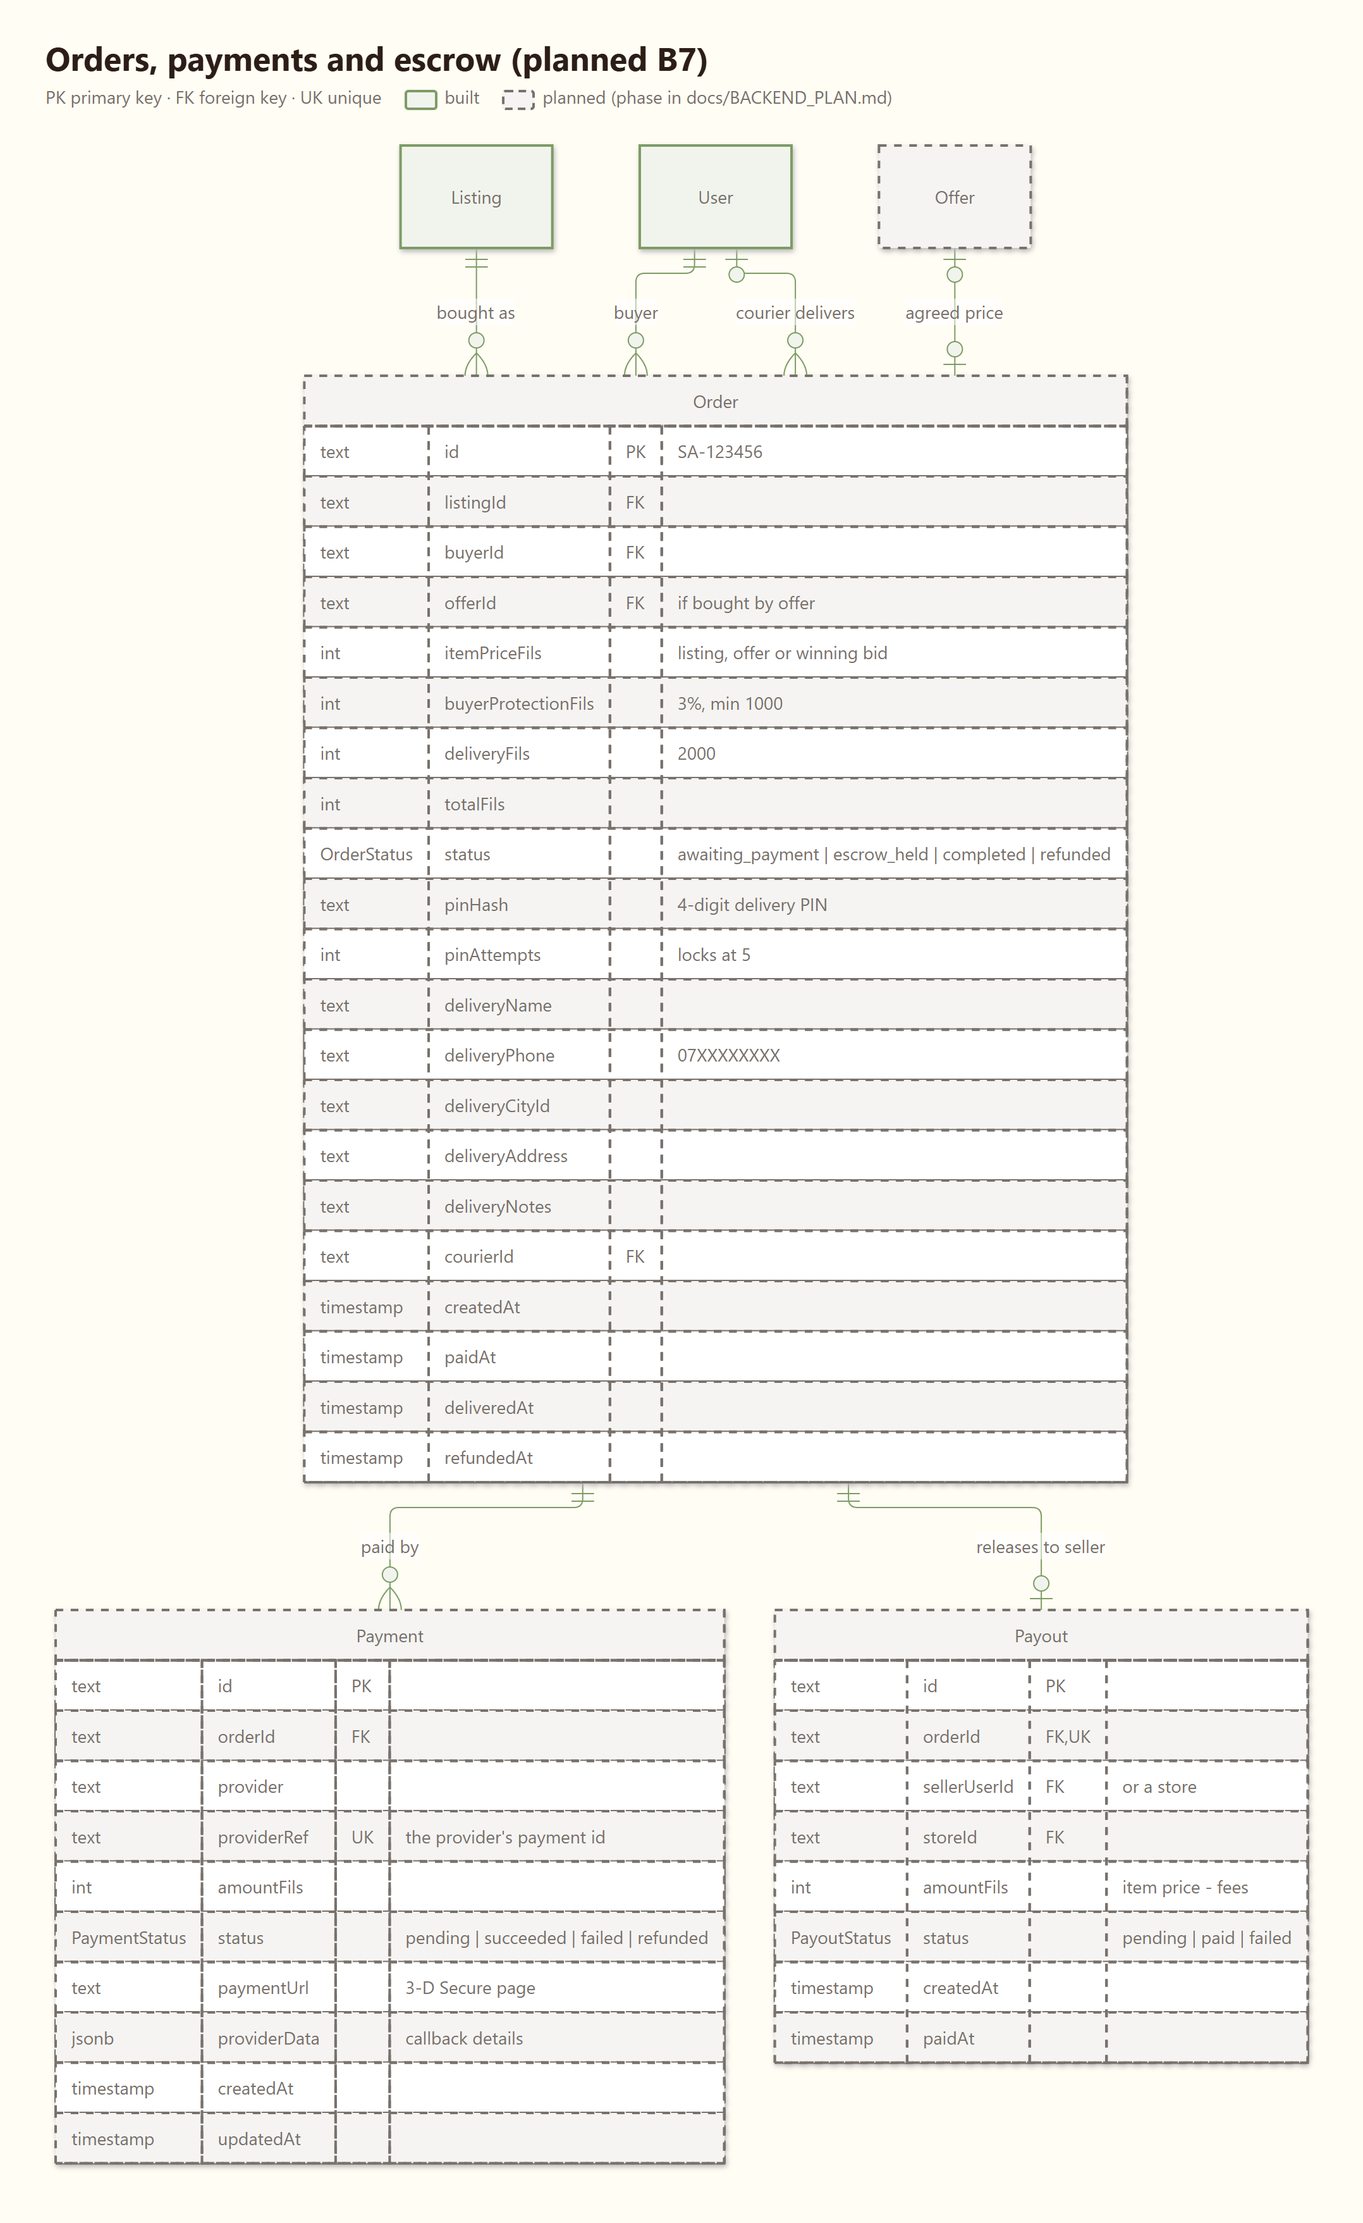
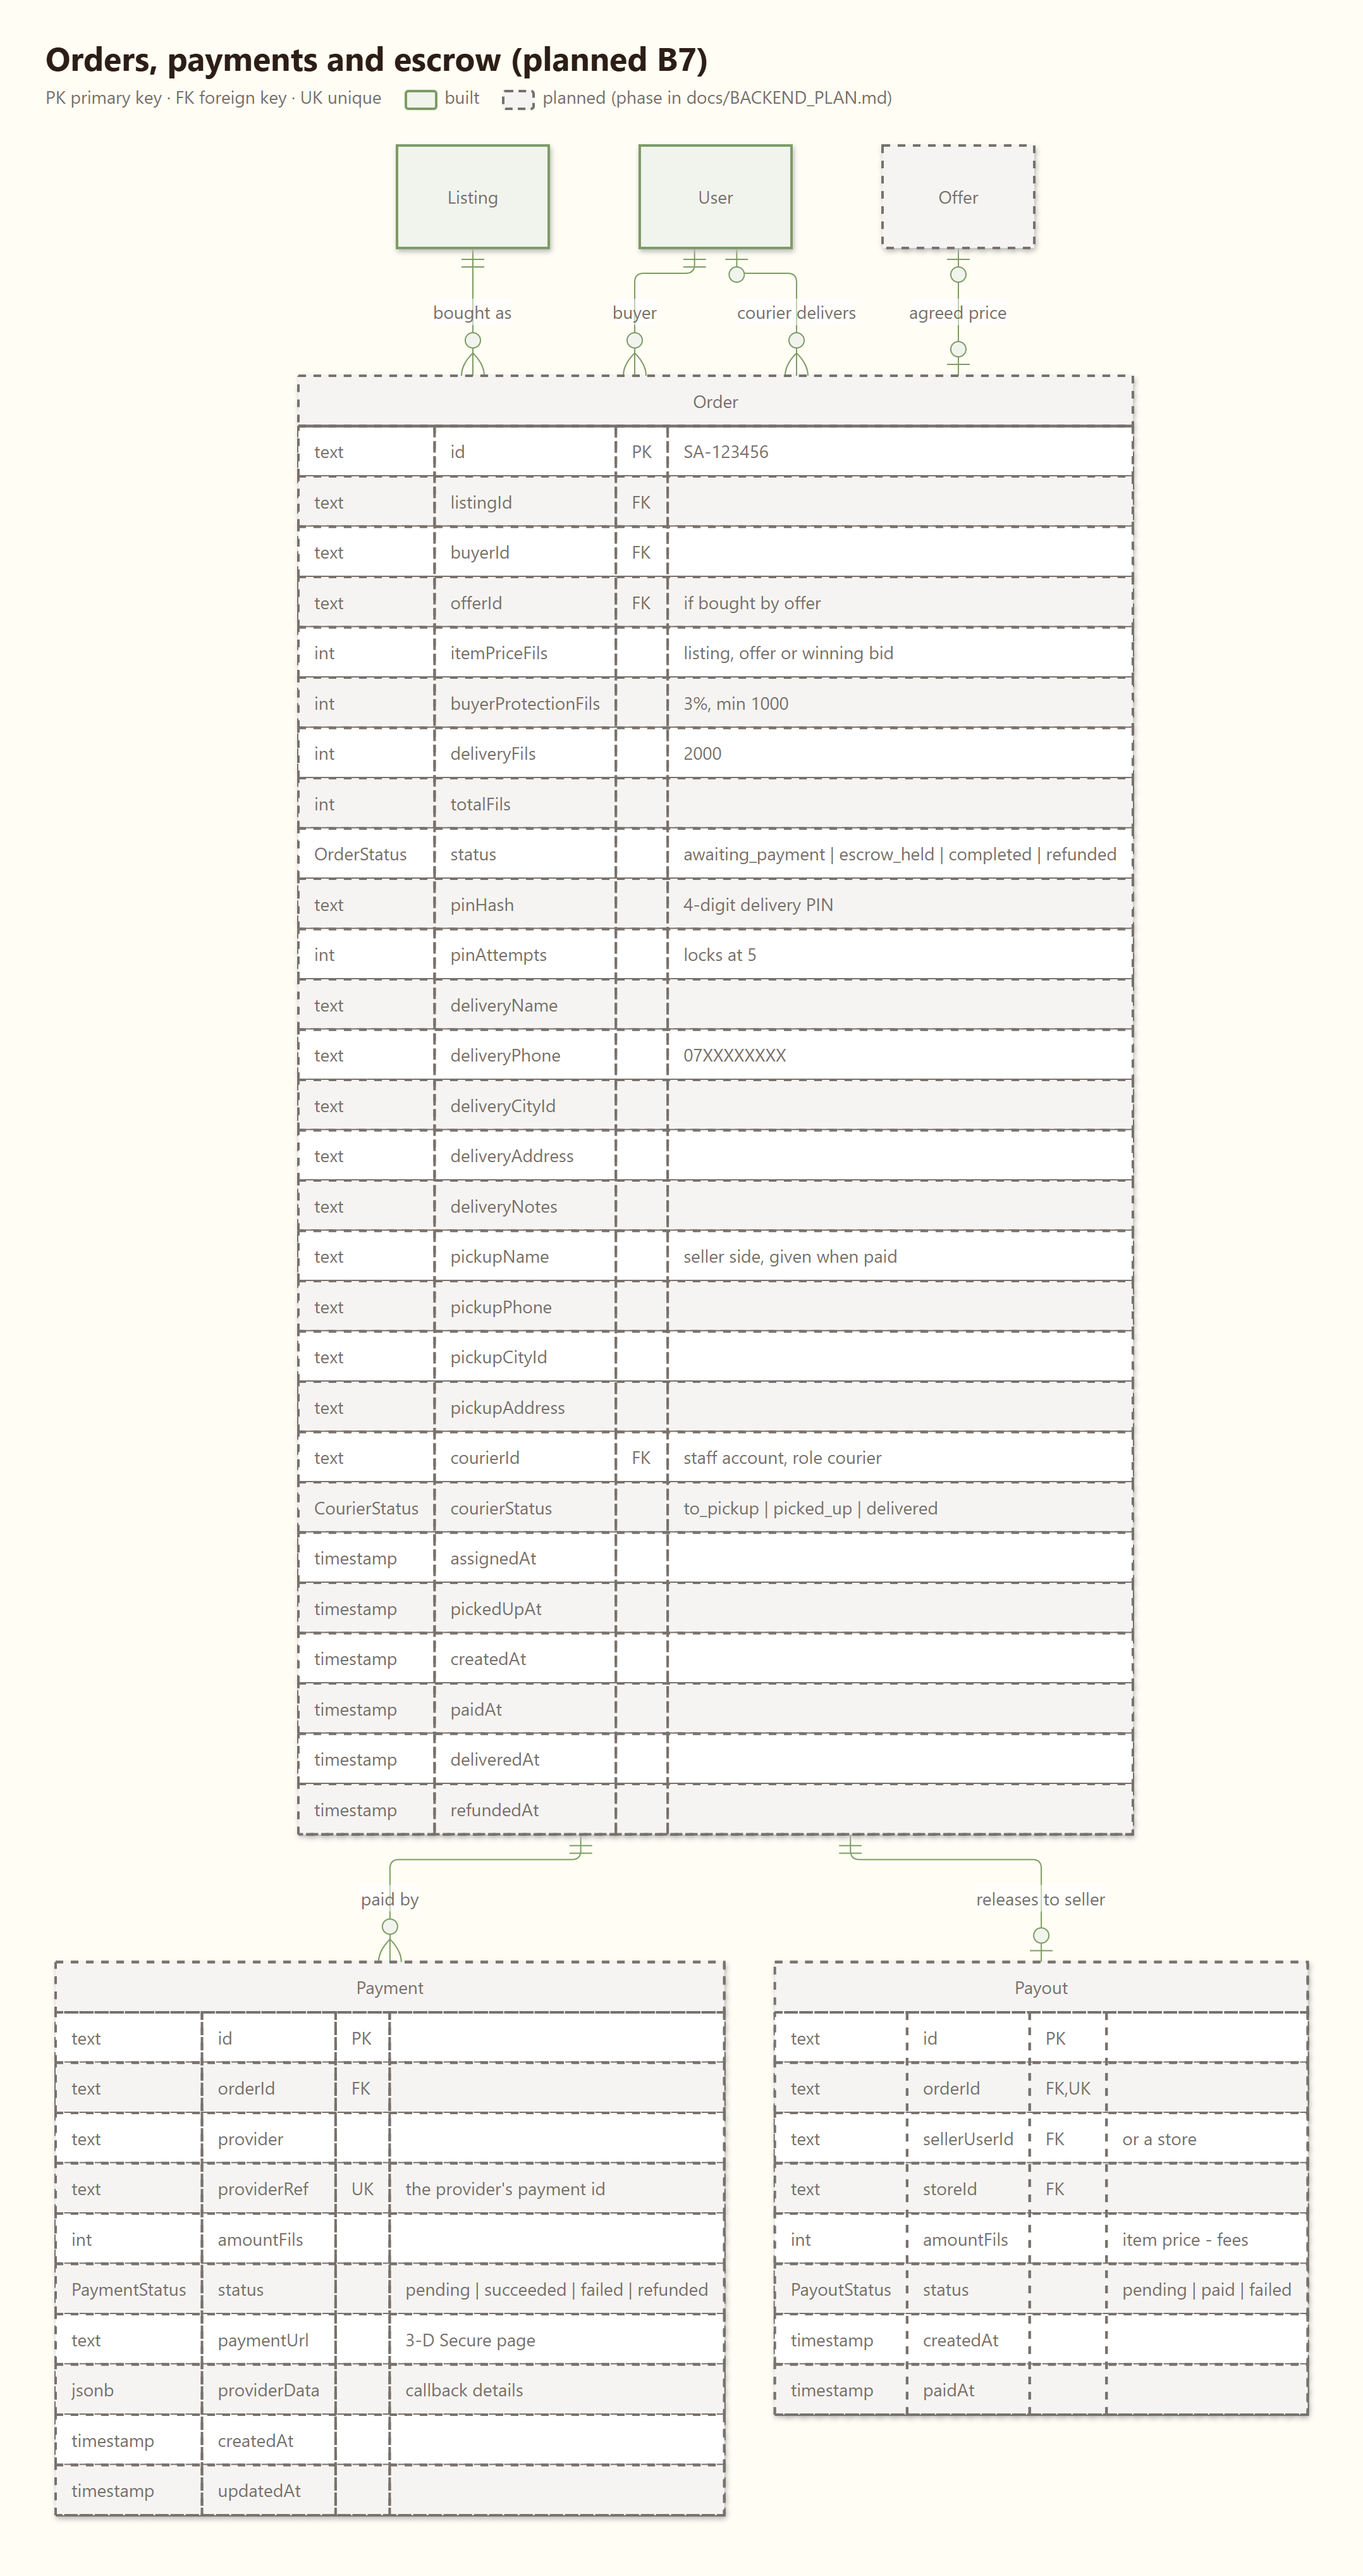
docs: courier (driver) app design (B14)
- Couriers are staff: admins create them with the company email domain (D9), an
  invite code sets the password, public sign-up refuses that domain
- Couriers see only their deliveries: order number, pickup (seller) and drop-off
  (buyer), Picked up, PIN at the door; customer endpoints answer FORBIDDEN for them
- API.md: Delivery type, GET /courier/deliveries,
  POST /courier/deliveries/:orderId/picked-up; DATABASE.md: Order pickup fields and
  courier status; plan tasks B14.1–B14.7

Changed region(s): [[0.0311, 0.0, 0.9634, 0.9926], [0.7458, 0.062, 0.7769, 0.0931]]

diff --git a/docs/API.md b/docs/API.md
@@ -6,6 +6,11 @@ The app's HTTP service layer (`frontend/src/services/*/http.ts`) and API client 
 
 ## Changes on 2026-10-30 (backend: please read)
 
+**Planned: courier app** ([Couriers](#couriers-drivers-planned-backend_plan-b14)). Courier accounts are
+made by admins with the staff email domain, never by sign-up; couriers see only their deliveries (pickup,
+drop-off, PIN). New: `GET /courier/deliveries`, `POST /courier/deliveries/:orderId/picked-up`; sign-up
+refuses staff-domain emails; customer endpoints answer `FORBIDDEN` for couriers.
+
 **Breaking**
 * **Certified refurbished listings are always fixed price.** Vendors set the price, so the import
   (`POST /admin/refurbished/import`) has no `auctionEndsAt` / `auctionIncrementJod` any more: a row that
@@ -698,7 +703,41 @@ building and floor, and can change anything. The order is unchanged: it carries 
   * The listing becomes `sold`.
   * The PIN check and release happen **only on the server**. Rate-limit attempts per order (e.g. lock after 5 wrong PINs) so a PIN can't be guessed.
 * **Refunds:** if the item never arrives, support/admin moves the order to `refunded`, the escrow is returned to the buyer and the listing goes back to `active` (no app endpoint).
-* **`User.role`**: optional, `"courier"` for courier accounts. Couriers see "Confirm a Delivery" in the menu.
+* **`User.role`**: optional, `"courier"` for courier accounts. Couriers see only the courier screens
+  (below), never browsing, selling or buying.
+
+### Couriers (drivers) *(planned: BACKEND_PLAN B14)*
+
+Couriers are Sahla staff. **Nobody signs up as a courier:** an admin creates the account with a company
+email (the staff domain, e.g. `@sahla.jo`) and an invite code is emailed; the courier sets a password with
+`POST /auth/reset-password` (the app's normal "forgot password" screens) and then logs in with
+`POST /auth/login`. `POST /auth/send-otp` and `POST /auth/signup` refuse staff-domain emails (`VALIDATION`).
+With `role: "courier"` the app shows only these screens; every customer endpoint (listings, offers, chats,
+orders, saved items) answers `FORBIDDEN` (403) for a courier.
+
+```ts
+type Delivery = {
+  orderId: string;                  // "SA-123456"
+  status: 'to_pickup' | 'picked_up' | 'delivered';
+  itemTitle: Localized;
+  itemImageUrl: string;
+  pickup: DeliveryDetails;          // the seller: name, phone, area, address, notes
+  dropoff: DeliveryDetails;         // the buyer's delivery details from the order
+  assignedAt: string;               // ISO-8601
+  pickedUpAt?: string;
+  deliveredAt?: string;
+};
+```
+
+* **`GET /courier/deliveries`** *(courier)* → `Delivery[]`: the orders assigned to me that aren't delivered
+  yet, plus today's delivered ones, oldest assignment first. Pickup and drop-off are shown **only** to the
+  assigned courier.
+* **`POST /courier/deliveries/:orderId/picked-up`** *(courier)* → `Delivery` (`picked_up`). `NOT_FOUND` if
+  it isn't assigned to me; `VALIDATION` if it isn't `to_pickup`.
+* **`POST /courier/confirm-delivery`** *(above)*: the buyer tells the courier the 4-digit PIN at the door;
+  a correct PIN completes the order (`delivered`), a wrong one is `INVALID_PIN`, five wrong ones lock it.
+* Admins assign paid orders to couriers in the dashboard; the seller gives the pickup address when the order
+  is paid.
 
 ### Safety: report and block
 

diff --git a/docs/BACKEND_PLAN.md b/docs/BACKEND_PLAN.md
@@ -30,6 +30,7 @@ endpoint does), [`DATABASE.md`](DATABASE.md) the database design and [`backend/R
 | D5 | Admin dashboard | Own web app in this repo (`admin/`, React + Vite) calling the same API · AdminJS (generated, less flexible) | B8 | _Own web app on the same API recommended (see B8)_ |
 | D6 | Reverse geocoding (street from GPS) | Google Geocoding · HERE · Mapbox · self-hosted Nominatim (free) | B7 | |
 | D7 | Search engine | Postgres only (enough to launch) · Meilisearch later for typo tolerance | B2 | _Postgres first_ |
+| D9 | Staff email domain (couriers, admins) | e.g. `@sahla.jo` (the domain Sahla owns) | B14 | |
 | D8 | Where refurbished stock comes from (`REFURBISHED_SOURCING.md`) | 1 Jordanian vendors · 2 Sahla imports graded stock (EU / US / UAE) and sells it · 3 order on demand | B13 | _1 now, 2 next; 3 later_ |
 
 ---
@@ -199,10 +200,34 @@ Tasks:
 - **Not code:** a customs broker, TRC type approval per phone model, a freight forwarder, the first sample
   order from one supplier.
 
+## B14 — Courier (driver) app ⬜ (orders from B7; the app side can start on mock data)
+
+Couriers are **staff**, not customers: nobody can sign up as one. An admin creates the account with a
+**company email** (`@sahla.jo`, D9); the courier sets a password with the emailed code (the normal reset
+screen) and then logs in like anyone else, but sees **only the driver screens**: no browsing, selling,
+buying, chats or offers.
+
+- ⬜ **B14.1** Staff accounts: `npm run staff -- courier "Name" name@sahla.jo` now, `POST /admin/couriers` with
+  the dashboard (B8); only the staff domain; an invite code is emailed. Public sign-up refuses the staff
+  domain, so nobody can make a look-alike account.
+- ⬜ **B14.2** Couriers can only call courier endpoints: everything for customers (listing, offers, chats,
+  orders, saving) answers `FORBIDDEN` for them.
+- ⬜ **B14.3** `GET /courier/deliveries`: the orders assigned to me: order number, item, **pickup** (seller's
+  name, phone, area, address) and **drop-off** (buyer's delivery details), status.
+- ⬜ **B14.4** `POST /courier/deliveries/:orderId/picked-up`, then the existing
+  `POST /courier/confirm-delivery` with the buyer's 4-digit **PIN** (locks after 5 wrong tries).
+- ⬜ **B14.5** Pickup address: the seller gives it when the order is paid (B7), shown only to the courier.
+- ⬜ **B14.6** Assigning: an admin assigns each paid order to a courier in the dashboard (later: by area).
+- ⬜ **B14.7** App: courier mode. Log in → **Deliveries** list → a delivery: order number, pickup and drop-off
+  with **Call** and **Open in Maps**, **Picked up** button, **PIN** boxes → **Delivered**. The menu has only
+  language and log out. Built on the mock service first, like the rest of the app.
+
 ---
 
 ## Log
 Short notes on what changed, newest first.
+- 2026-10-30: courier (driver) app planned as B14: staff accounts made by admins with the company email,
+  courier-only screens (deliveries, pickup / drop-off, PIN).
 - 2026-10-30: refurbished = vendor-refurbished customer returns, sold only by vendors (or Sahla); sourcing
   options in `REFURBISHED_SOURCING.md`, phase B13; B3 also covers admin category pictures.
 - 2026-10-30: certified refurbished listings are fixed price only (vendors set the price): no auction

diff --git a/docs/DATABASE.md b/docs/DATABASE.md
@@ -139,7 +139,7 @@ erDiagram
 
 | Table | Status | Purpose and rules | Indexes |
 |---|---|---|---|
-| **User** | ✅ B1 | Every person: buyers, sellers, couriers, admins. `role` is null for normal users. `suspended` is set only by an admin. Deleting a user cascades to sessions, certificates, ID checks, reports, blocks, signals, flags; their listings are withdrawn and keep no link. | `email` unique |
+| **User** | ✅ B1 | Every person: buyers, sellers, couriers, admins. `role` is null for normal users; couriers and admins are **staff accounts** made by an admin with the company email domain, never by sign-up (B14). `suspended` is set only by an admin. Deleting a user cascades to sessions, certificates, ID checks, reports, blocks, signals, flags; their listings are withdrawn and keep no link. | `email` unique |
 | **Session** | ✅ B1 | One signed-in device. The JWT names the session (`sid`); deleting the row signs that device out. Log-out deletes one, password reset all. | `tokenHash` unique, `userId`, `deviceId` |
 | **EmailCode** | ✅ B1 | 6-digit codes for sign-up and password reset. Deleted once used. | `(email, purpose)` |
 | **IdVerification** | ✅ table, flow B3 / B11 | Verified badge requests: a manual photo review now, Sanad later. Approving sets `User.verified` (and `Listing.sellerVerified` on their listings). | `userId`, `nationalIdHash` |
@@ -370,7 +370,14 @@ erDiagram
     text deliveryCityId
     text deliveryAddress
     text deliveryNotes
-    text courierId FK
+    text pickupName "seller side, given when paid"
+    text pickupPhone
+    text pickupCityId
+    text pickupAddress
+    text courierId FK "staff account, role courier"
+    CourierStatus courierStatus "to_pickup | picked_up | delivered"
+    timestamp assignedAt
+    timestamp pickedUpAt
     timestamp createdAt
     timestamp paidAt
     timestamp deliveredAt
@@ -402,7 +409,7 @@ erDiagram
 
 | Table | Purpose and rules | Indexes |
 |---|---|---|
-| **Order** | The server prices every order (the app never sends amounts). Paying sets `escrow_held`, makes the PIN and reserves the listing **in one transaction**: the first payment wins. The courier's correct PIN → `completed`, listing `sold`, a `Payout` row. Delivery details are copied in, since the address book can change. | `buyerId`, `listingId`, `status`, `courierId` |
+| **Order** | The server prices every order (the app never sends amounts). Paying sets `escrow_held`, makes the PIN and reserves the listing **in one transaction**: the first payment wins. The courier's correct PIN → `completed`, listing `sold`, a `Payout` row. Delivery details are copied in, since the address book can change. The courier part (B14): an admin sets `courierId` (`to_pickup`), the courier marks `picked_up`, the PIN makes it `delivered`; pickup and drop-off are shown only to that courier. | `buyerId`, `listingId`, `status`, `courierId` |
 | **Payment** | Each attempt to pay (a failed 3-D Secure try can be retried). `providerRef` unique, so a repeated bank callback is handled once. | `orderId`, `providerRef` unique |
 | **Payout** | Money released to the seller after delivery (one per order). | `orderId` unique, `status` |
 
